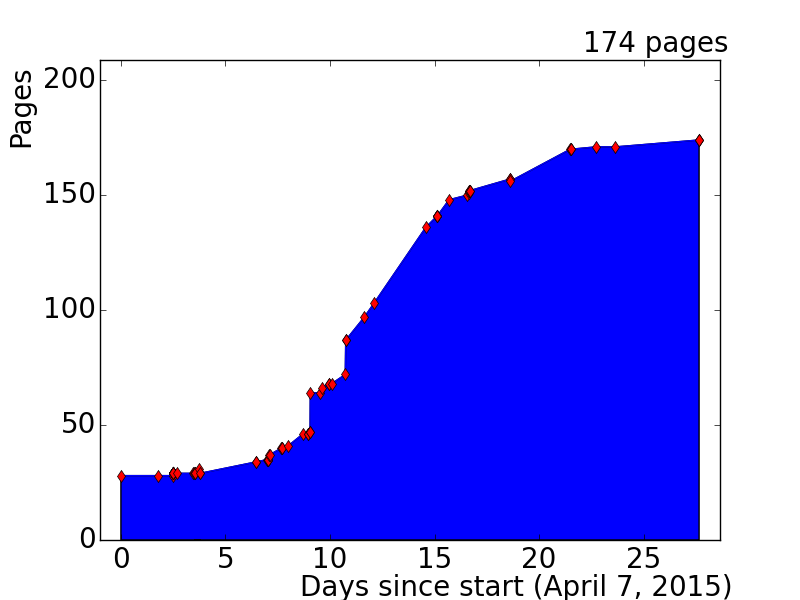
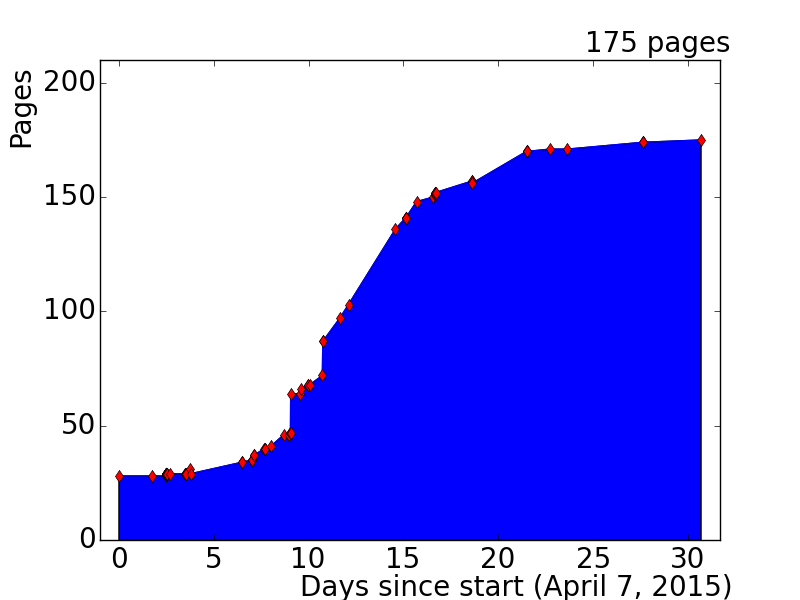
Start tau

diff --git a/ch4-reconstruction.tex b/ch4-reconstruction.tex
@@ -505,7 +505,7 @@ The muon momenta in simulation are scaled and smeared to match the momentum scal
 where Det=ID or MS, the $\Delta r_m^{\mathrm{Det}}(\eta,\phi)$ parametrize the momentum resolution smearing, the $s_n^{\mathrm{Det}}(\eta,\phi)$ parametrize the scale corrections, and the $g_m$ are normally-distributed random variable with mean 0 and width 1\footnote{Note that this equation does not apply to cases where the resolution is data is better than that in simulation. In these cases, the resolution difference is included in the positive ID and MS variations, and the effect of the positive variation on the physical observables is symmetrized about the nominal value.}. The constant scale correction term, $s_0^{\mathrm{MS}}$, accounts for the difference between data and simulation in the energy lost by muons before reaching the muon spectrometer. $s_0^{\mathrm{ID}}$ is set to zero due to the negligible energy loss before the inner detector. The linear terms, $s_1^{\mathrm{ID,MS}}$, models discrepancies between data and simulation in the magnetic field integral and the radial dimension of the detector. The resolution corrections $\Delta r_m^{\mathrm{Det}}$ represent deviations from the resolution in data, which is parametrized empirically as:
 
 \begin{equation}
-	\frac{\sigma(\pt)}{\pt} = \frac{r_0}{\pt} \oplus r_1 \plus r2\cdot\pt,
+	\frac{\sigma(\pt)}{\pt} = \frac{r_0}{\pt} \oplus r_1 \oplus r2\cdot\pt,
 \end{equation}
 
 where the $r_0$ term describes energy lost by muons as they traverse the material of the detector, the $r_1$ term describes multiple scattering, magnetic field inhomogeneities, and local radial displacements, and the $r_2$ term describes intrinsic resolution effects due to the spatial resolution of the hit measurements and residual misalignment. 
@@ -520,6 +520,10 @@ The corrections are derived from $J/\Psi\rightarrow\mu\mu$, $\Upsilon\rightarrow
 
 
 \subsection{Tau Leptons}\label{sec:event-reconstruction-taus}
+Tau leptons have a proper decay length of $87 \um$, and therefore typically decay before reaching the active layers of the detector. The leading decay modes, shown in table~\ref{table:reco-tau-decays}, are quite diverse. $35.2\%$ of tau leptons decay to an electron or muon plus two neutrinos. The remaining $64.8\%$ decay to hadrons plus a neutrino. The hadronic decay modes contain one charged pion in $72\%$ of the decays, and three charged pions in $22\%$ of the decays; the majority of the remainder contain one or more charged kaons. The hadronic decay modes also frequently contain neutral pions, with $78\%$ containing at least one neutral pion. 
+
+
+
 
 \subsubsection{Efficiency}
 

diff --git a/pages.md b/pages.md
@@ -75,3 +75,4 @@
 + [2015-05-04-15h28m28s] 174
 + [2015-05-04-15h35m39s] 174
 + [2015-05-04-15h38m33s] 174
++ [2015-05-07-16h50m07s] 175
